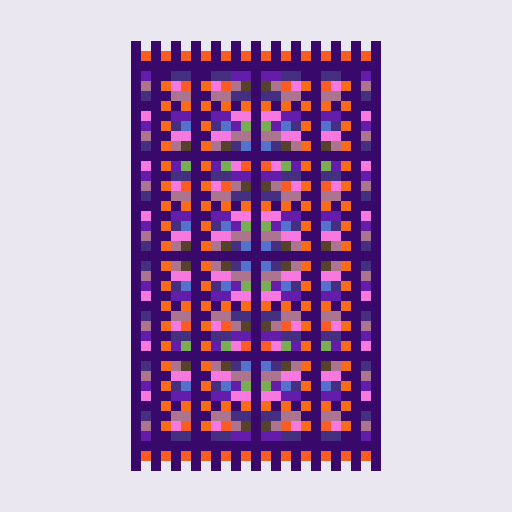
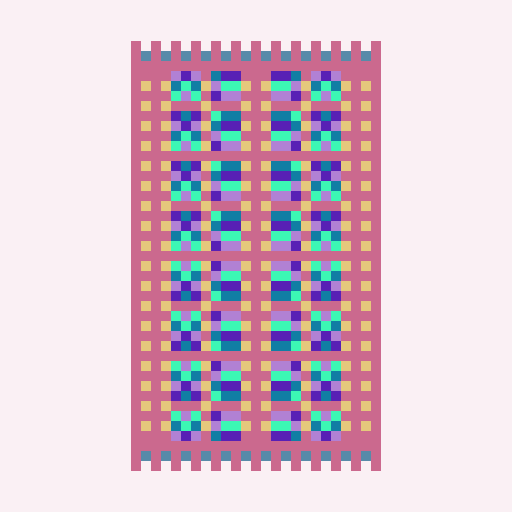
done with nft_minting

diff --git a/ts/cluster1/nft_metadata.ts b/ts/cluster1/nft_metadata.ts
@@ -1,4 +1,4 @@
-import wallet from "../wba-wallet.json"
+import wallet from "/Users/harshanaprajapati/Q4_SOL_Harshana/ts/cluster1/wallet/dev-wallet.json"
 import { createUmi } from "@metaplex-foundation/umi-bundle-defaults"
 import { createGenericFile, createSignerFromKeypair, signerIdentity } from "@metaplex-foundation/umi"
 import { irysUploader } from "@metaplex-foundation/umi-uploader-irys"
@@ -16,14 +16,15 @@ umi.use(signerIdentity(signer));
     try {
         // https://docs.metaplex.com/programs/token-metadata/changelog/v1.0#json-structure
 
-        const image = "https://devnet.irys.xyz/E8XW6dfeY5HBxfM8RSgdt3YCdEHkGGeG3P6G85W3ZgPm"
+        const image = "https://devnet.irys.xyz/CD9VqsZA4JkQvxy7WbdJRF383PAtWjZBkmn4xRfBF8nj"
         const metadata = {
-            name: "ZEREF",
-            symbol: "ZRF",
-            description: "Created By ZEREF",
+            name: "JOON",
+            symbol: "JN",
+            description: "A rug nft created by Joon",
             image,
             attributes: [
-                {trait_type: 'something', value: 'great'}
+                {trait_type: 'fabric', value: 'muslin'},
+                {trait_type: 'color', value: 'warm_pink'},
             ],
             properties: {
                 files: [
@@ -33,9 +34,14 @@ umi.use(signerIdentity(signer));
                     },
                 ]
             },
-            creators: []
+            creators: [
+                {
+                    address: keypair.publicKey, 
+                    share: 10
+                }
+            ]
         };
-        let myUri = await  umi.uploader.uploadJson(metadata)
+        let myUri = await umi.uploader.uploadJson(metadata)
         myUri = myUri.replace("arweave.net", "devnet.irys.xyz")
         console.log("Your metadata URI: ", myUri);
     }

diff --git a/ts/cluster1/nft_image.ts b/ts/cluster1/nft_image.ts
@@ -1,4 +1,4 @@
-import wallet from "../wba-wallet.json"
+import wallet from "/Users/harshanaprajapati/Q4_SOL_Harshana/ts/cluster1/wallet/dev-wallet.json"
 import { createUmi } from "@metaplex-foundation/umi-bundle-defaults"
 import { createGenericFile, createSignerFromKeypair, signerIdentity } from "@metaplex-foundation/umi"
 import { irysUploader } from "@metaplex-foundation/umi-uploader-irys"
@@ -19,8 +19,8 @@ umi.use(signerIdentity(signer));
         //2. Convert image to generic file.
         //3. Upload image
 
-        const image = await readFile("/home/zeref/Q4_Sol_Krishh/ts/cluster1/images/generug.png")
-        const genericUploader = createGenericFile(image, "NFT-Dropout-Charity", {
+        const image = await readFile("/Users/harshanaprajapati/Q4_SOL_Harshana/ts/cluster1/images/generug.png")
+        const genericUploader = createGenericFile(image, "NFT-Exotic-Rug", {
             contentType: "image/png"
         })
         const [myUri] = await umi.uploader.upload([genericUploader])

diff --git a/ts/cluster1/nft_mint.ts b/ts/cluster1/nft_mint.ts
@@ -2,7 +2,7 @@ import { createUmi } from "@metaplex-foundation/umi-bundle-defaults"
 import { createSignerFromKeypair, signerIdentity, generateSigner, percentAmount } from "@metaplex-foundation/umi"
 import { createNft, mplTokenMetadata } from "@metaplex-foundation/mpl-token-metadata";
 
-import wallet from "../wba-wallet.json"
+import wallet from "/Users/harshanaprajapati/Q4_SOL_Harshana/ts/cluster1/wallet/dev-wallet.json"
 import base58 from "bs58";
 
 const RPC_ENDPOINT = "https://api.devnet.solana.com";
@@ -15,9 +15,9 @@ umi.use(mplTokenMetadata())
 const sellerFeeBasisPoints = percentAmount(0, 2);
 const mint = generateSigner(umi);
 
-const name = "Zeref";
-const uri = "https://devnet.irys.xyz/BRjDZ2UUJebqhrjKxModyxUVfLdbeNNzpEXr5tki4A7U";
-const symbol = "ZRF";
+const name = "JOON";
+const uri = "https://devnet.irys.xyz/7tcPjvq1QAtKHRtTxhqNB5Dr9aSKKqe32ofGBMg3u5YG";
+const symbol = "JN";
 
 (async () => {
     let tx = createNft(umi, {
